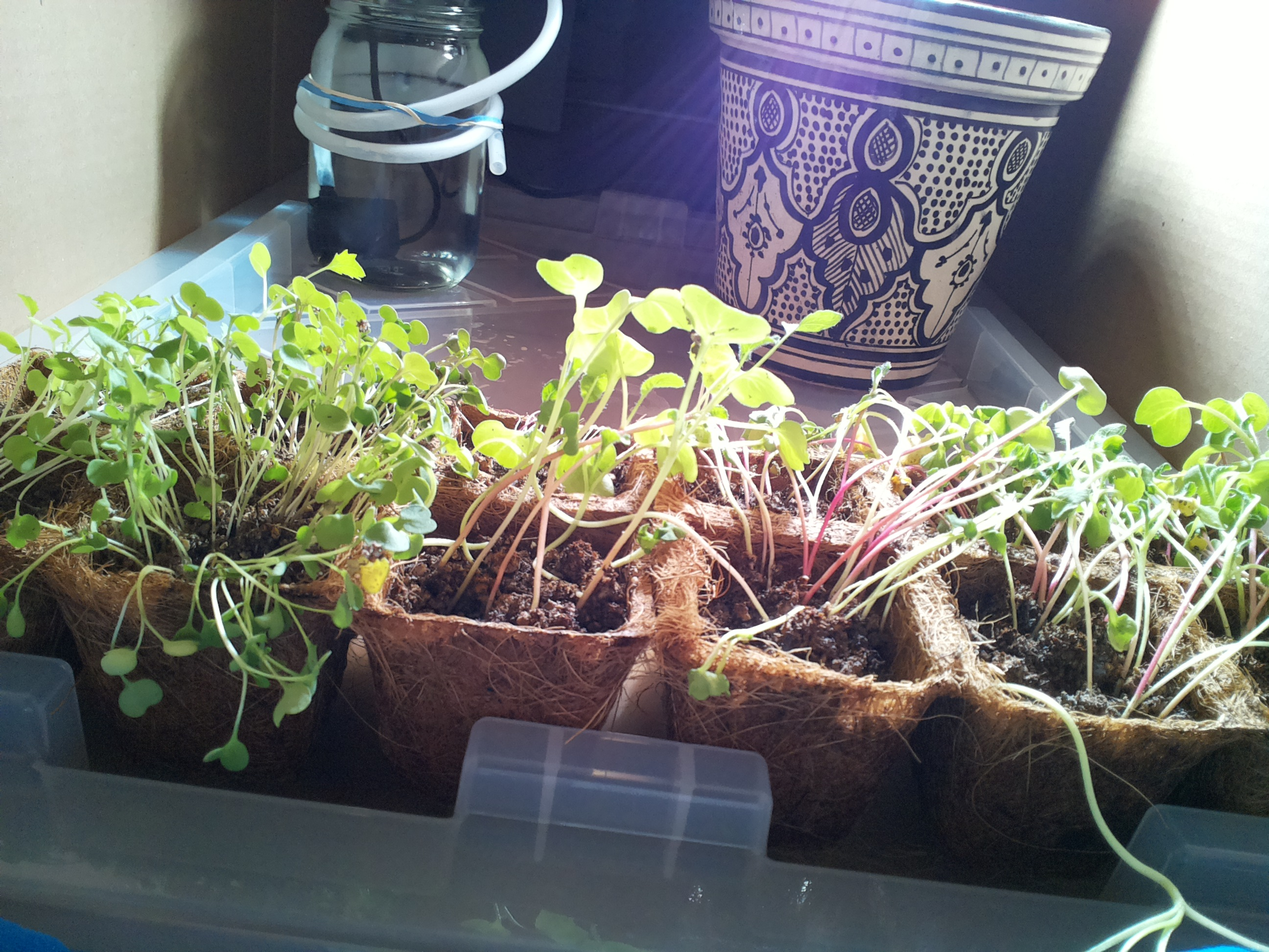
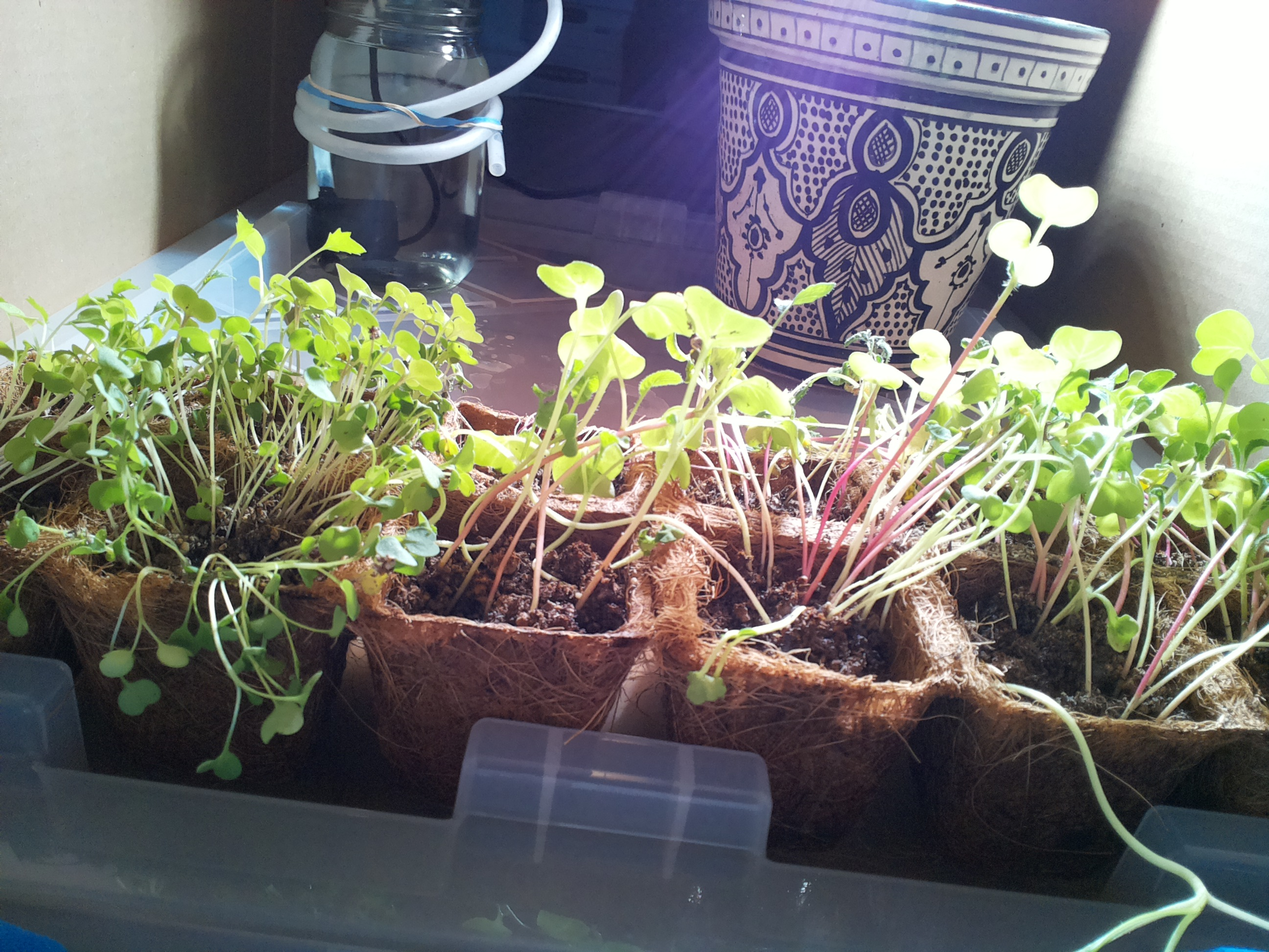
mirror sync 2026-09-13 13:10

Changed region(s): [[0.0, 0.0, 1.0, 1.0], [0.2188, 0.0, 0.4375, 0.1852]]

diff --git a/JOURNAL.md b/JOURNAL.md
@@ -459,3 +459,11 @@
 - Lamp: on — correct for photoperiod.
 - Watering: 4s pulse per standing order 2 (4s of 60s daily cap used; water.py OK, pump plug verified OFF after).
 - No changes to standing orders. Next: 13:07 observe-only; 19:22 pulse unless surfaces look dark. Still pending: verify lamp-sync.sh fires in logs/cron.log after the next reboot.
+
+### 2026-09-13 13:07 — midday check-in (cron, observe only)
+- Photo: seedlings vigorous in all 12 cells (day 20) — tall, leggy, cotyledons broad, turgid, and green; true leaves growing; pink stems on several (brassica-like, normal); a few yellowing older cotyledons (normal). No wilting, mold, pests, or tipping. Tube outlet in place beside the jar pointing down over the lid (confirmed in zoom).
+- Jar: zoomed photo shows clear water filling the glass to around the shoulder, pump cable submerged — level well above the pump body, consistent with this morning's reading. Refill holding.
+- Soil: mixed — dark damp centers in the left cells, middle/right cells browner and crumblier with coir walls pale; no wilt stress, no dry-down alarm since the morning pulse.
+- Lamp: on — correct for photoperiod.
+- Watering: none (observe-only per standing order 2); 4s of 60s daily cap used. Evening 19:22 pulse planned unless surfaces look dark.
+- No changes to standing orders. Still pending: verify lamp-sync.sh fires in logs/cron.log after the next reboot.
